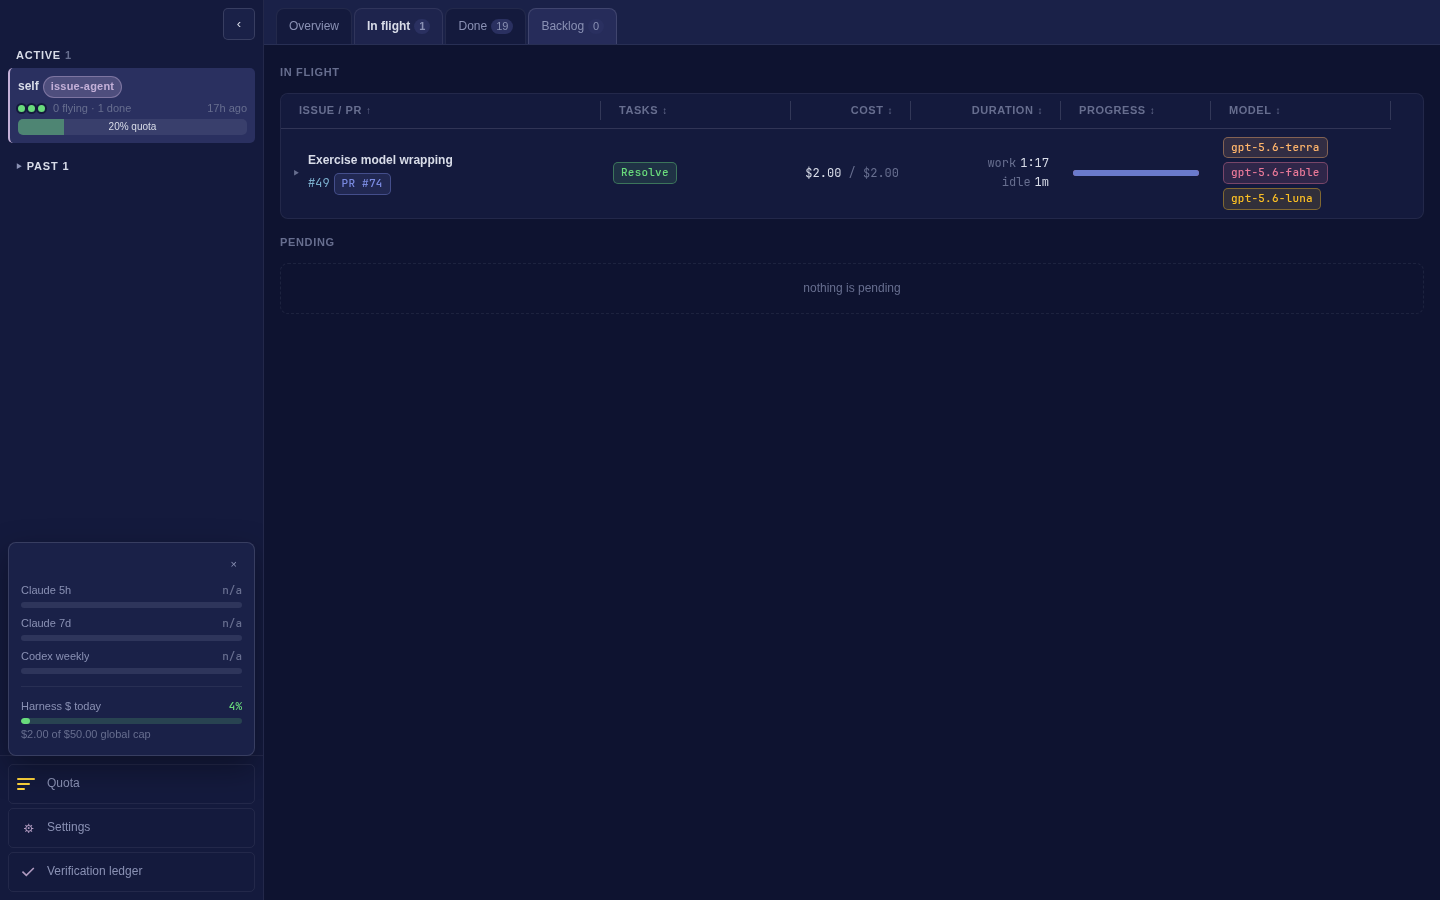
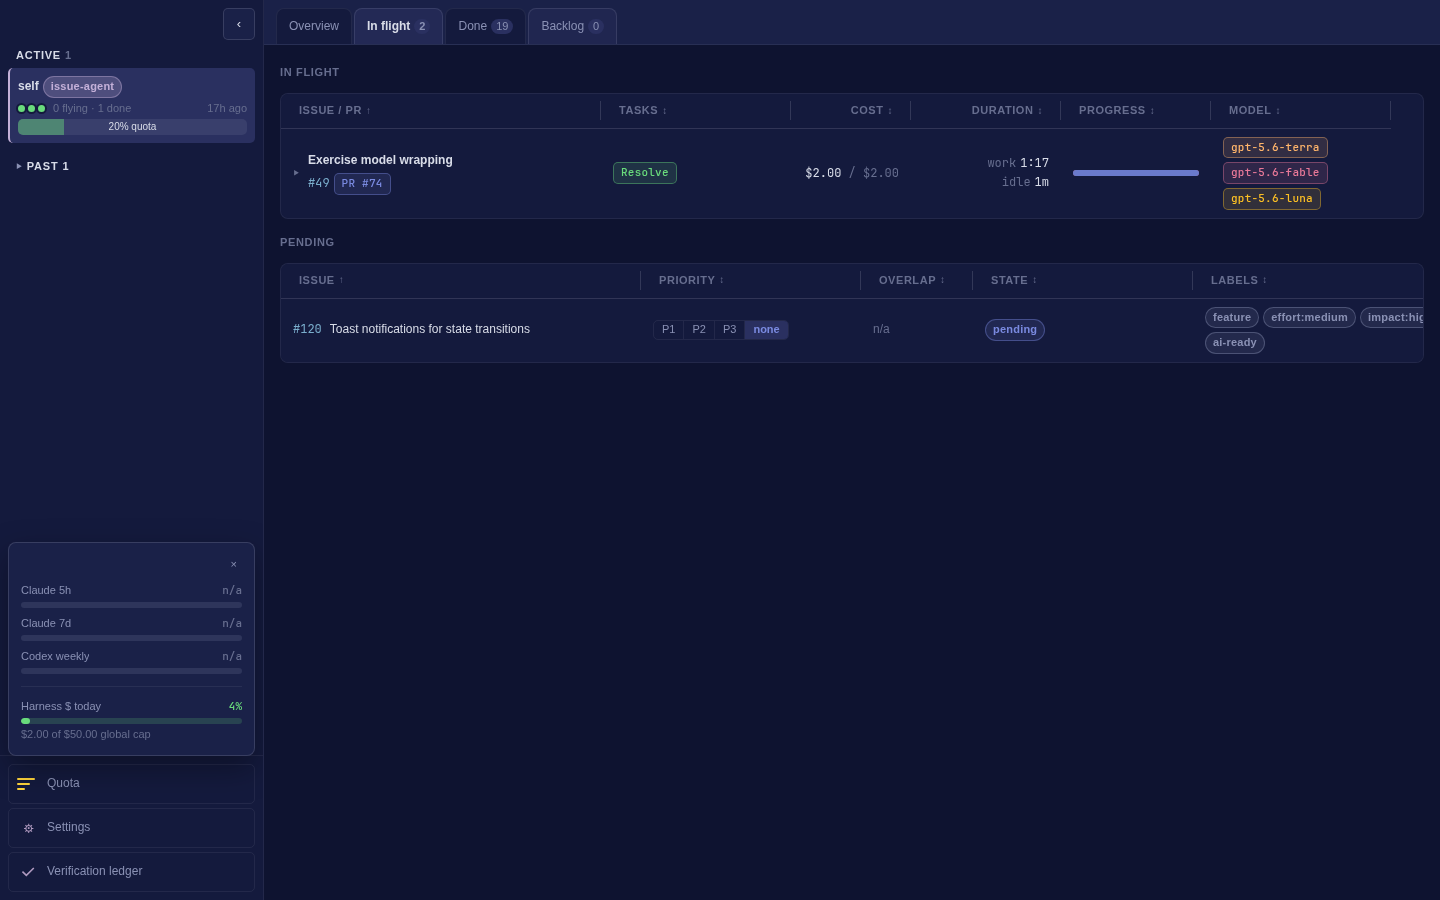
green: refresh in-flight state after promotion

diff --git a/dashboard/src/App.tsx b/dashboard/src/App.tsx
@@ -12,8 +12,17 @@ import {
 import { Sidebar } from "./components/Sidebar";
 import { TabStrip, type TabDef } from "./components/TabStrip";
 import { OverviewTab } from "./components/OverviewTab";
-import { IssuesTab } from "./components/IssuesTab";
+import {
+  IssuesTab,
+  type BacklogPromotionPhase,
+} from "./components/IssuesTab";
 import { useIssues } from "./features/issues/useIssues";
+import type {
+  BacklogCard,
+  IssuesPayload,
+  PendingCard,
+  Priority,
+} from "./api/types";
 import { IssueTab } from "./components/IssueTab";
 import { VerificationTab } from "./components/VerificationTab";
 import { EmptyState } from "./components/ui/Feedback";
@@ -27,6 +36,44 @@ import { ToastStack } from "./components/ToastStack";
 
 const TOP_POLL_MS = 10_000;
 const OPTIONS_STORAGE = "issue-agent.dashboard.options";
+
+function priorityFromLabels(labels: string[]): Priority {
+  const priority = labels
+    .map((label) => label.toUpperCase())
+    .find((label): label is Exclude<Priority, null> => (
+      label === "P1" || label === "P2" || label === "P3"
+    ));
+  return priority ?? null;
+}
+
+function pendingCardFromBacklog(card: BacklogCard): PendingCard {
+  return {
+    issue: card.issue,
+    title: card.title,
+    url: card.url,
+    priority: priorityFromLabels(card.labels),
+    labels: Array.from(new Set([...card.labels, "ai-ready"])),
+    held: false,
+    hold_reason: null,
+    overlap: null,
+  };
+}
+
+interface OptimisticPromotion {
+  card: BacklogCard;
+  requestSucceeded: boolean;
+}
+
+function promotionConfirmed(
+  promotion: OptimisticPromotion,
+  issues: IssuesPayload,
+): boolean {
+  const issue = promotion.card.issue;
+  const active = issues.in_flight.some((card) => card.issue === issue)
+    || issues.pending.some((card) => card.issue === issue);
+  const stillBacklogged = issues.backlog.some((card) => card.issue === issue);
+  return active || (promotion.requestSucceeded && !stillBacklogged);
+}
 
 function storedOptions(): DashboardOptions {
   const defaults: DashboardOptions = {
@@ -102,35 +149,64 @@ export default function App() {
   }, [route]);
 
   const issues = useIssues(selectedRepo);
-  const [promotedBacklog, setPromotedBacklog] = useState<Record<string, number[]>>({});
-  const hiddenBacklog = selectedRepo ? (promotedBacklog[selectedRepo] ?? []) : [];
+  const [promotedBacklog, setPromotedBacklog] = useState<
+    Record<string, OptimisticPromotion[]>
+  >({});
+  const optimisticPromotions = selectedRepo ? (promotedBacklog[selectedRepo] ?? []) : [];
+  const currentIssues = issues.data;
+  const unresolvedPromotions = currentIssues
+    ? optimisticPromotions.filter((promotion) => (
+        !promotionConfirmed(promotion, currentIssues)
+      ))
+    : optimisticPromotions;
+  const promotedIssueNumbers = new Set(
+    optimisticPromotions.map(({ card }) => card.issue),
+  );
   const displayedIssues = {
     ...issues,
     data: issues.data
       ? {
           ...issues.data,
-          backlog: issues.data.backlog.filter((card) => !hiddenBacklog.includes(card.issue)),
+          backlog: issues.data.backlog.filter(
+            (card) => !promotedIssueNumbers.has(card.issue),
+          ),
+          pending: [
+            ...issues.data.pending,
+            ...unresolvedPromotions.map(({ card }) => pendingCardFromBacklog(card)),
+          ],
         }
       : null,
   };
   useEffect(() => {
-    if (!selectedRepo || !issues.data) return;
+    const data = issues.data;
+    if (!selectedRepo || !data) return;
     setPromotedBacklog((current) => {
-      const hidden = current[selectedRepo] ?? [];
-      const stillPending = hidden.filter((issue) => (
-        issues.data?.backlog.some((card) => card.issue === issue)
+      const optimistic = current[selectedRepo] ?? [];
+      const unresolved = optimistic.filter((promotion) => (
+        !promotionConfirmed(promotion, data)
       ));
-      if (stillPending.length === hidden.length) return current;
-      return { ...current, [selectedRepo]: stillPending };
+      if (unresolved.length === optimistic.length) return current;
+      return { ...current, [selectedRepo]: unresolved };
     });
   }, [issues.data, selectedRepo]);
-  const setBacklogPromotion = useCallback((issue: number, pending: boolean) => {
+  const setBacklogPromotion = useCallback((
+    card: BacklogCard,
+    phase: BacklogPromotionPhase,
+  ) => {
     if (!selectedRepo) return;
     setPromotedBacklog((current) => {
       const existing = current[selectedRepo] ?? [];
-      const next = pending
-        ? Array.from(new Set([...existing, issue]))
-        : existing.filter((candidate) => candidate !== issue);
+      const matching = existing.find((candidate) => candidate.card.issue === card.issue);
+      const withoutCard = existing.filter(
+        (candidate) => candidate.card.issue !== card.issue,
+      );
+      const next = phase === "failed"
+        ? withoutCard
+        : phase === "succeeded"
+          ? matching
+            ? [...withoutCard, { ...matching, requestSucceeded: true }]
+            : existing
+          : [...withoutCard, { card, requestSucceeded: false }];
       return { ...current, [selectedRepo]: next };
     });
   }, [selectedRepo]);
@@ -282,7 +358,7 @@ function Body({
   issues: ReturnType<typeof useIssues>;
   onSetSub: (s: IssuesSub) => void;
   onOpenIssue: (n: number) => void;
-  onBacklogPromotion: (issue: number, pending: boolean) => void;
+  onBacklogPromotion: (card: BacklogCard, phase: BacklogPromotionPhase) => void;
   hasRepos: boolean;
   reposLoading: boolean;
   showProjectedCost: boolean;

diff --git a/dashboard/src/App.test.tsx b/dashboard/src/App.test.tsx
@@ -57,6 +57,36 @@ const backlogIssue = {
   impact: null,
 };
 
+const historicalDoneIssue = {
+  issue: 120,
+  title: "Previous completion",
+  url: "https://github.com/o/r/issues/120",
+  pr: null,
+  pr_url: null,
+  pr_state: null,
+  stage: "done",
+  done: true,
+  steps: [],
+  cost_usd: null,
+  estimated: false,
+  projected_cost_usd: null,
+  projected_model: null,
+  started_ts: null,
+  last_ts: null,
+  elapsed_s: null,
+  working_s: null,
+  idle_s: null,
+  idle_active: false,
+  projected_eta_s: null,
+  models: [],
+  model_badges: [],
+  rounds: null,
+  flags: [],
+  issue_verification: null,
+  pr_verification: null,
+  merged_ts: null,
+};
+
 function json(body: unknown): Response {
   return new Response(JSON.stringify(body), {
     status: 200,
@@ -201,6 +231,7 @@ describe("App navigation", () => {
           }
           return json({
             ...issues,
+            done: [historicalDoneIssue],
             backlog: [backlogIssue],
           });
         }
@@ -261,5 +292,45 @@ describe("App navigation", () => {
     expect(await screen.findByText("Toast notifications")).toBeVisible();
     expect(screen.getByRole("tab", { name: /Backlog/ })).toHaveTextContent("1");
     expect(screen.getByRole("tab", { name: /In flight/ })).toHaveTextContent("0");
+  });
+
+  it("clears optimistic state when a successful promotion advances directly to done", async () => {
+    window.location.hash = "#/repo/demo/issues/backlog";
+    let finishPromotion: (response: Response) => void = () => {};
+    let serverDone = false;
+    const promotion = new Promise<Response>((resolve) => {
+      finishPromotion = resolve;
+    });
+    vi.stubGlobal(
+      "fetch",
+      vi.fn(async (input: RequestInfo | URL) => {
+        const path = String(input);
+        if (path === "/api/repos") return json(repos);
+        if (path === "/api/usage") return json(usage);
+        if (path.endsWith("/promote")) return promotion;
+        if (path.endsWith("/issues")) {
+          return serverDone
+            ? json({ ...issues, done: [historicalDoneIssue] })
+            : json({ ...issues, backlog: [backlogIssue] });
+        }
+        return json({ rows: [], warnings: [] });
+      }),
+    );
+
+    render(<App />);
+
+    await screen.findByText("Toast notifications");
+    await userEvent.click(screen.getByRole("button", { name: "Promote #120 to ai-ready" }));
+    await userEvent.click(screen.getByRole("button", { name: "Promote #120" }));
+    expect(screen.getByRole("tab", { name: /In flight/ })).toHaveTextContent("1");
+
+    serverDone = true;
+    finishPromotion(json({ ok: true, detail: "promoted" }));
+
+    await waitFor(() => {
+      expect(screen.getByRole("tab", { name: /In flight/ })).toHaveTextContent("0");
+    });
+    expect(screen.getByRole("tab", { name: /Done/ })).toHaveTextContent("1");
+    expect(screen.getByRole("tab", { name: /Backlog/ })).toHaveTextContent("0");
   });
 });

diff --git a/dashboard/src/components/IssuesTab.tsx b/dashboard/src/components/IssuesTab.tsx
@@ -50,12 +50,14 @@ import {
 
 const MarkdownBody = lazy(() => import("./ui/MarkdownBody"));
 
+export type BacklogPromotionPhase = "pending" | "succeeded" | "failed";
+
 interface IssuesTabProps {
   repo: string;
   sub: IssuesSub;
   issues: Polled<IssuesPayload>;
   onOpenIssue: (issue: number) => void;
-  onBacklogPromotion?: (issue: number, pending: boolean) => void;
+  onBacklogPromotion?: (card: BacklogCard, phase: BacklogPromotionPhase) => void;
   showProjectedCost?: boolean;
   showDurationSeconds?: boolean;
 }
@@ -586,7 +588,7 @@ function BacklogTable({
   ghOk: boolean;
   visible: ReadonlySet<string>;
   onRefresh: () => void;
-  onPromotion: (issue: number, pending: boolean) => void;
+  onPromotion: (card: BacklogCard, phase: BacklogPromotionPhase) => void;
 }) {
   const [expanded, setExpanded] = useState<number | null>(null);
   const [promote, setPromote] = useState<BacklogCard | null>(null);
@@ -621,12 +623,13 @@ function BacklogTable({
     const card = promote;
     setError(null);
     setPromote(null);
-    onPromotion(card.issue, true);
+    onPromotion(card, "pending");
     try {
       await api.promote(repo, card.issue);
+      onPromotion(card, "succeeded");
       onRefresh();
     } catch (caught) {
-      onPromotion(card.issue, false);
+      onPromotion(card, "failed");
       setError(caught instanceof Error ? caught.message : String(caught));
     }
   };
